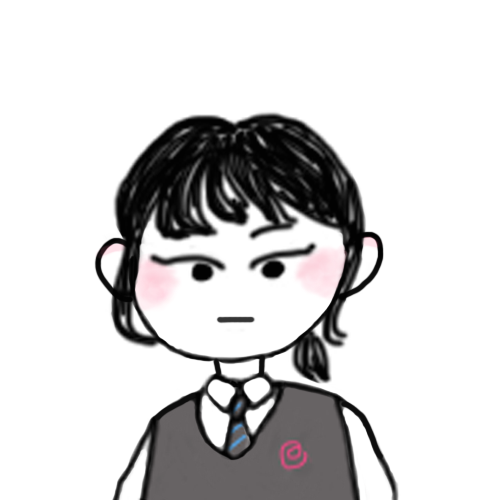
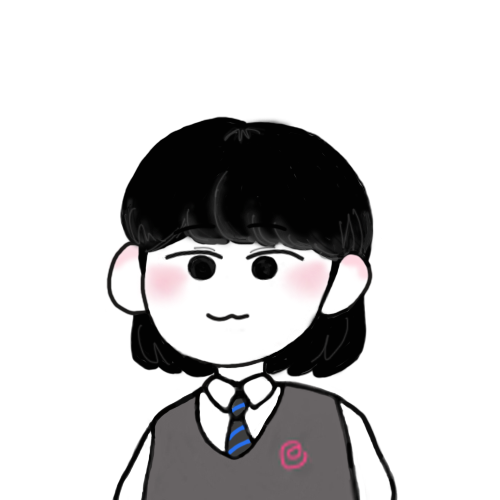
major commit : character

diff --git a/src/sample/Controller.java b/src/sample/Controller.java
@@ -7,6 +7,8 @@ import javafx.scene.control.Button;
 import javafx.scene.control.Label;
 import javafx.scene.control.ProgressBar;
 import javafx.scene.control.TextField;
+import javafx.scene.image.Image;
+import javafx.scene.image.ImageView;
 import javafx.scene.input.KeyCode;
 import javafx.scene.layout.Pane;
 
@@ -30,20 +32,32 @@ public class Controller implements Initializable {
     int wordsTyped = 0; // 없앤 단어의 수
     int life = 100; // 생명
 
-    public int getPlayerType() {  // 플레이어타입 데이터 변환
-        return playerType; // 메소드 리턴 (멤버변수타입으로)
+    public ImageView getPlayer() {
+        return player;
     }
 
-    public void setPlayerType(int playerType) { // 플레이어타입 데이터 저장
-        this.playerType = playerType; // 리턴타입 - void 설정
+    public void setPlayer(ImageView player) {
+        this.player = player;
     }
 
-    private int playerType; //플레이어타입(캐릭터)객체 변수
+    private ImageView player; //플레이어타입(캐릭터)객체 변수
+
+    String appMain = System.getProperty("user.dir");
+    String gender;
 
     @Override
     public void initialize(URL location, ResourceBundle resources) {
-        this.playerType = selectController.playertype; //플레이어 선택 화면에서 캐릭터 정보를 넘겨받아옴
-        System.out.print(playerType); //캐릭터 출력
+
+        player = selectController.playertype; //플레이어 선택 화면에서 캐릭터 정보를 넘겨받아옴
+        System.out.print(player.getImage().impl_getUrl());
+        gender = player.getImage().impl_getUrl().endsWith("woman_excited.png")?"woman":"man";
+        player.setFitWidth(150);
+        player.setFitHeight(150);
+        player.setLayoutX(1024 - 150);
+        player.setLayoutY(768 - 150);
+        player.setImage(new Image("file:"+appMain+"/src/sample/img/"+gender+"_normal.png"));
+        gamePane.getChildren().add(player);
+
         startButton1.setOnAction(event -> { //게임 시작하는 버튼에 이벤트 바인딩
             startButton1.setVisible(false); // 시작버튼을 보이지않도록 수정
             labels = new Vector<Label>(); // 모든 단어들이 저장될 벡터 생성
@@ -62,7 +76,9 @@ public class Controller implements Initializable {
                     if (labels.get(i).getText().equals(textInput.getText())) { //레이블에 입력한 것과 떨어지는 요소중 글자가 같게된다면
                         delWord(i); // 단어 삭제
                         textInput.setText(""); // 단어 입력칸을 빈칸으로
+                        player.setImage(new Image("file:"+appMain+"/src/sample/img/"+gender+"_smile.png"));
                     }
+                    else player.setImage(new Image("file:"+appMain+"/src/sample/img/"+gender+"_upset.png"));
                 }
             }
         });
@@ -84,7 +100,7 @@ public class Controller implements Initializable {
                     if (labels.get(i).getLayoutY() > 768) { //단어들이 화면 Y축의 768보다 클 경우
                         life -= 10; //생명 10 감소
                         lifeBar.setProgress(life / 100.0f); // 프로그레스바는 0.0 ~ 1.0의 값을 가지므로 나누어준다
-                        System.out.println("Life decreased. Life : " + life + "\nProgressba set : " + life / 100.0f); //출력
+                        System.out.println("Life decreased. Life : " + life + "\nProgressbar set : " + life / 100.0f); //출력
                         delWord(i); //단어 삭제
                     }
                 }
@@ -97,8 +113,7 @@ public class Controller implements Initializable {
             labels.forEach(Label -> Label.setVisible(false)); //모든 단어를 숨긴다
             labels.clear(); // labels의 모든 요소를 삭제
             gamePane.getChildren().removeAll(); //gamepane의 모든 요소 삭제
-
-
+            player.setImage(new Image("file:"+appMain+"/src/sample/img/"+gender+"_excited.png"));
             startButton1.setVisible(true); //시작버튼을 보이도록 수정
         }).start(); // 스레드를 시작
         /*

diff --git a/src/sample/selectController.java b/src/sample/selectController.java
@@ -1,16 +1,19 @@
 package sample;
 
 import javafx.application.Platform;
+import javafx.event.EventType;
 import javafx.fxml.FXML;
 import javafx.fxml.FXMLLoader;
 import javafx.fxml.Initializable;
 import javafx.scene.Scene;
 import javafx.scene.control.*;
+import javafx.scene.image.Image;
 import javafx.scene.image.ImageView;
 import javafx.scene.input.KeyCode;
 import javafx.scene.layout.GridPane;
 import javafx.scene.layout.Pane;
 
+import java.io.File;
 import java.io.IOException;
 import java.net.URL;
 import java.util.Random;
@@ -23,23 +26,52 @@ public class selectController implements Initializable {
     private ImageView male;
     @FXML
     private ImageView female;
-    public static int playertype=0;
+    public static ImageView playertype = null;
+    String appMain = System.getProperty("user.dir");
     @Override
     public void initialize(URL location, ResourceBundle resources) {
         male.setOnMouseClicked(event -> nextStep(1));
         female.setOnMouseClicked(event -> nextStep(2));
+        male.setOnMouseEntered(event -> male.setImage(new Image("file:"+appMain+"/src/sample/img/man_laughing.png")));
+        female.setOnMouseEntered(event -> female.setImage(new Image("file:"+appMain+"/src/sample/img/woman_laughing.png")));
+        male.setOnMouseExited(event -> male.setImage(new Image("file:"+appMain+"/src/sample/img/man_normal.png")));
+        female.setOnMouseExited(event -> female.setImage(new Image("file:"+appMain+"/src/sample/img/woman_normal.png")));
     }
 
     private void nextStep(int playerType){
-        playertype = playerType;
-        try {
-            GridPane root = FXMLLoader.load(getClass().getResource("sample.fxml"));
-            Scene scene = new Scene(root);
-            Main.getPrimaryST().setScene(scene);
-            Main.getPrimaryST().show();
-
-        } catch (IOException e) {
-            e.printStackTrace();
-        }
+        new Thread(()->{
+            if(playerType == 1){
+                playertype = male;
+                male.setImage(new Image("file:"+appMain+"/src/sample/img/man_excited.png"));
+                male.setOnMouseEntered(null);
+                male.setOnMouseExited(null);
+                try {
+                    Thread.sleep(1000);
+                } catch (InterruptedException e) {
+                    e.printStackTrace();
+                }
+            }
+            else {
+                playertype = female;
+                female.setImage(new Image("file:"+appMain+"/src/sample/img/woman_excited.png"));
+                female.setOnMouseEntered(null);
+                female.setOnMouseExited(null);
+                try {
+                    Thread.sleep(1000);
+                } catch (InterruptedException e) {
+                    e.printStackTrace();
+                }
+            }
+            Platform.runLater(() -> {
+                try {
+                    GridPane root = FXMLLoader.load(getClass().getResource("sample.fxml"));
+                    Scene scene = new Scene(root);
+                    Main.getPrimaryST().setScene(scene);
+                    Main.getPrimaryST().show();
+                } catch (IOException e) {
+                    e.printStackTrace();
+                }
+            });
+        }).start();
     }
 }
